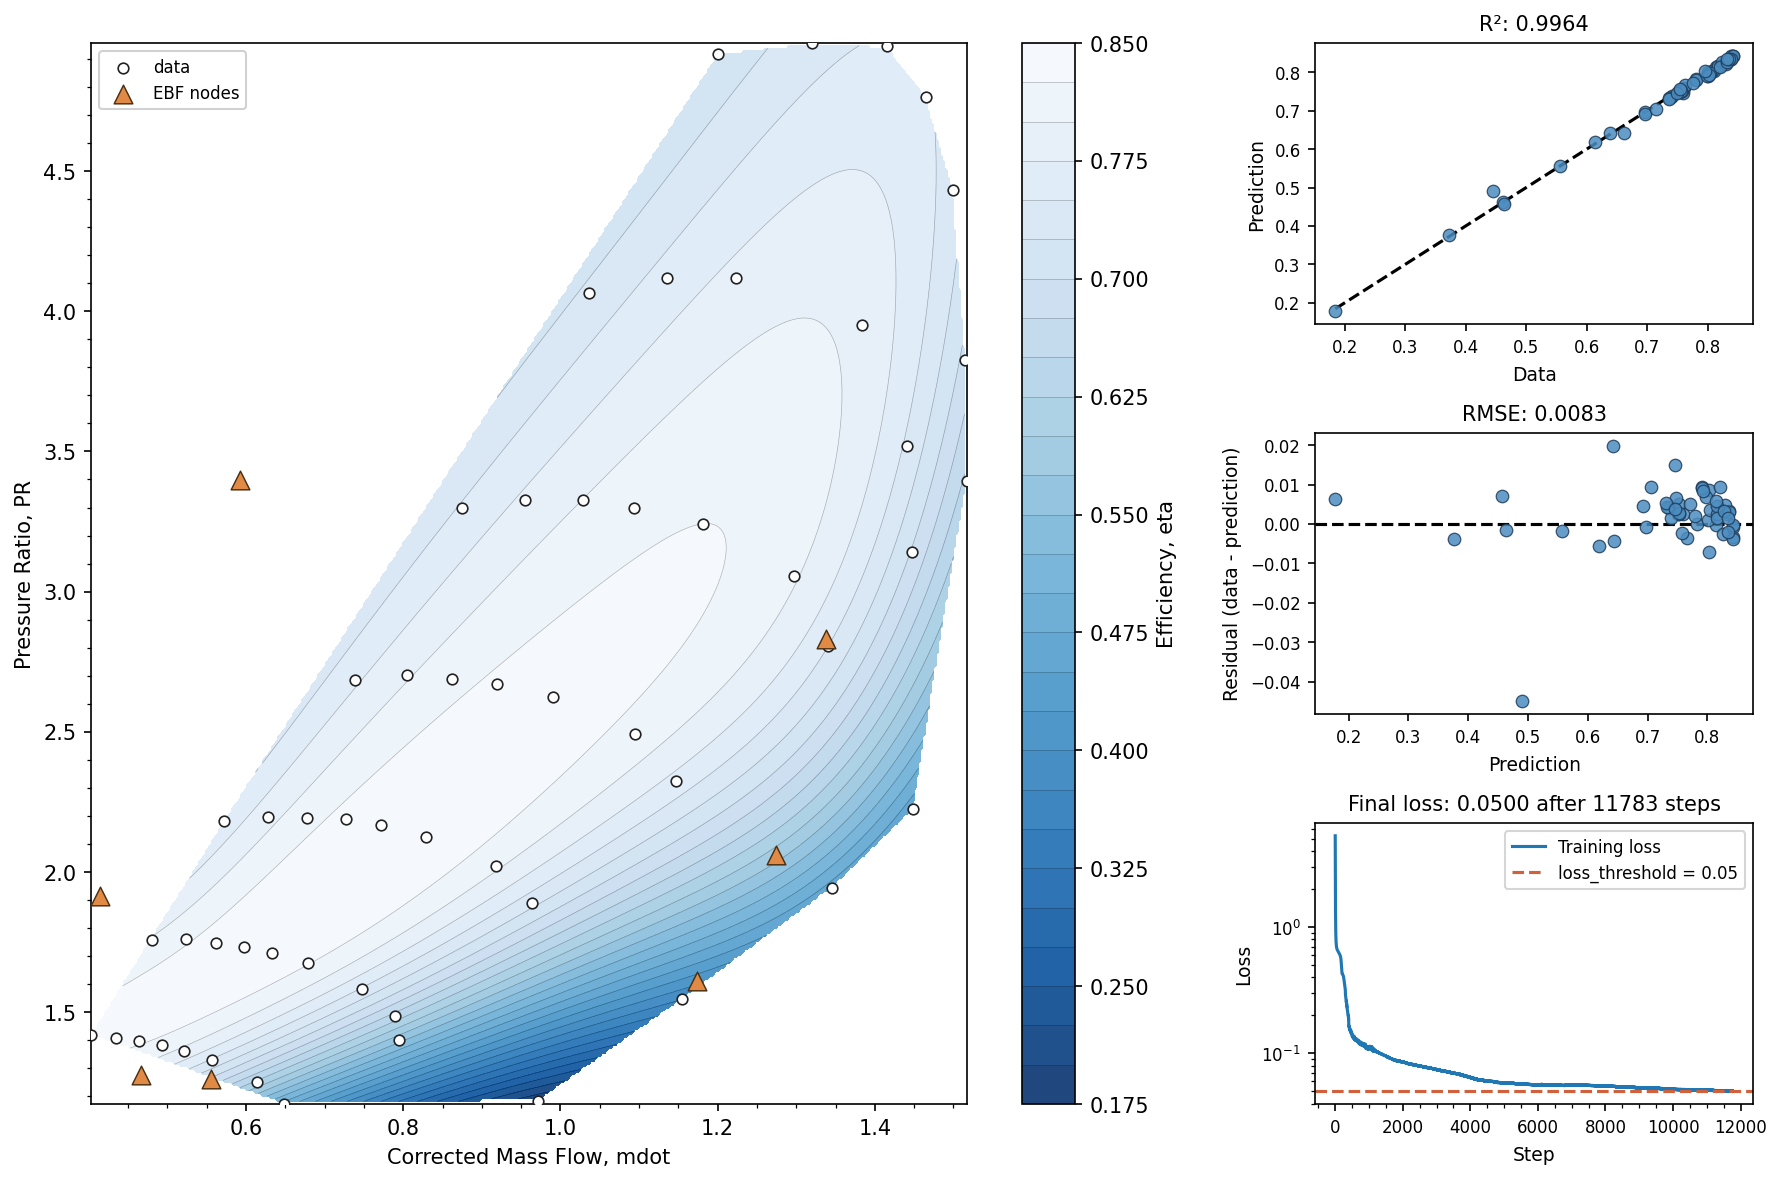
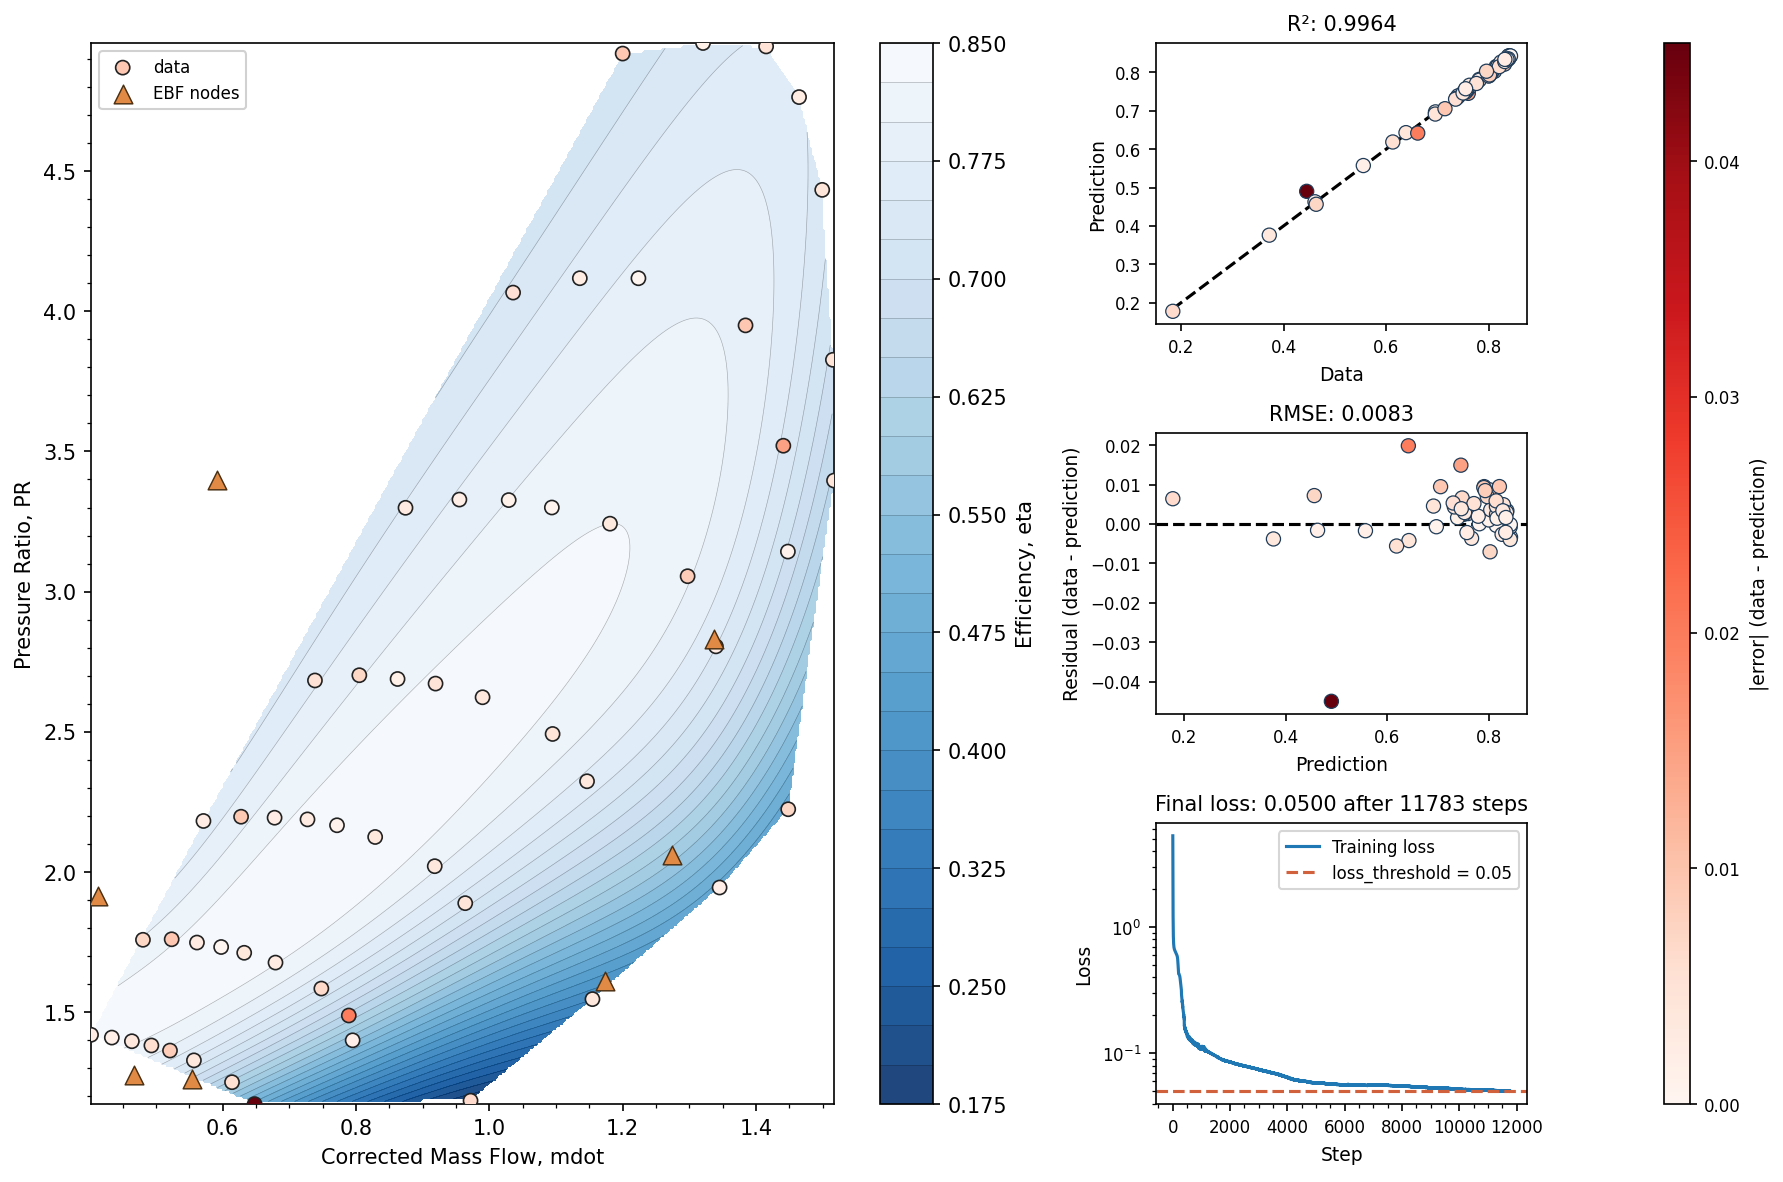
Colormap for data error

diff --git a/ebf/viz.py b/ebf/viz.py
@@ -46,12 +46,22 @@ ACCENT = '#d1603d'         # reference lines that mark a limit or target
 GRID_LINE = 'black'        # contour lines drawn over the filled map
 GRID_ALPHA = 0.3
 
+# Error-shaded variant: points are colored by |error| instead of a flat
+# fill, so the same red ramp carries the same meaning on every panel of a
+# summary figure.  Sequential red reads as "worse = darker" without a
+# legend, and stays distinct from the blue surface ramp underneath.  The
+# markers are drawn larger than the flat-fill ones because a small marker
+# gives the eye too little area to judge its shade.
+ERROR_CMAP = 'Reds'
+ERROR_SIZE = 46
+
 
 # ------------------------------------------------------------------
 # Correlation plot (any dimensionality)
 # ------------------------------------------------------------------
 
-def correlation_plot(y_true, y_pred, ax=None):
+def correlation_plot(y_true, y_pred, ax=None, *,
+                     c=None, cmap=None, norm=None):
     """Scatter plot of data vs prediction with 1:1 line and R².
 
     Parameters
@@ -62,6 +72,11 @@ def correlation_plot(y_true, y_pred, ax=None):
         Predicted values.
     ax : matplotlib.axes.Axes, optional
         Axes to draw on.  A new figure is created when *None*.
+    c : array-like, shape (n,), optional
+        Per-point values to color the markers by (e.g. absolute error).
+        Uses the flat style colour when *None*.
+    cmap, norm : optional
+        Colormap and normalization applied to *c*.
 
     Returns
     -------
@@ -81,8 +96,15 @@ def correlation_plot(y_true, y_pred, ax=None):
     slope, intercept, r_value, p_value, std_err = linregress(y_true, y_pred)
     r2 = r_value ** 2
 
-    ax.scatter(y_true, y_pred, c=POINT_FACE, edgecolors=POINT_EDGE,
-               linewidths=0.6, s=36, alpha=0.85, zorder=3)
+    if c is None:
+        ax.scatter(y_true, y_pred, c=POINT_FACE, edgecolors=POINT_EDGE,
+                   linewidths=0.6, s=36, alpha=0.85, zorder=3)
+    else:
+        # No alpha here — a translucent marker mixes with the white
+        # background and reads as a lower error than it is.
+        ax.scatter(y_true, y_pred, c=c, cmap=cmap, norm=norm,
+                   edgecolors=POINT_EDGE, linewidths=0.6, s=ERROR_SIZE,
+                   zorder=3)
     lo, hi = y_true.min(), y_true.max()
     ax.plot([lo, hi], [lo, hi], 'k--', zorder=2)
     ax.set_xlabel('Data')
@@ -96,7 +118,8 @@ def correlation_plot(y_true, y_pred, ax=None):
 # Residual-vs-predicted plot (any dimensionality)
 # ------------------------------------------------------------------
 
-def residual_plot(y_true, y_pred, ax=None):
+def residual_plot(y_true, y_pred, ax=None, *,
+                  c=None, cmap=None, norm=None):
     """Scatter plot of residuals against predictions with a zero line.
 
     Complements :func:`correlation_plot`: structure in this plot that
@@ -113,6 +136,11 @@ def residual_plot(y_true, y_pred, ax=None):
         Predicted values.
     ax : matplotlib.axes.Axes, optional
         Axes to draw on.  A new figure is created when *None*.
+    c : array-like, shape (n,), optional
+        Per-point values to color the markers by (e.g. absolute error).
+        Uses the flat style colour when *None*.
+    cmap, norm : optional
+        Colormap and normalization applied to *c*.
 
     Returns
     -------
@@ -132,8 +160,13 @@ def residual_plot(y_true, y_pred, ax=None):
 
     rmse = np.sqrt(np.mean(residuals ** 2))
 
-    ax.scatter(y_pred, residuals, c=POINT_FACE, edgecolors=POINT_EDGE,
-               linewidths=0.6, s=36, alpha=0.85, zorder=3)
+    if c is None:
+        ax.scatter(y_pred, residuals, c=POINT_FACE, edgecolors=POINT_EDGE,
+                   linewidths=0.6, s=36, alpha=0.85, zorder=3)
+    else:
+        ax.scatter(y_pred, residuals, c=c, cmap=cmap, norm=norm,
+                   edgecolors=POINT_EDGE, linewidths=0.6, s=ERROR_SIZE,
+                   zorder=3)
     ax.axhline(0.0, color='k', linestyle='--', zorder=2)
     ax.set_xlabel('Prediction')
     ax.set_ylabel('Residual (data - prediction)')
@@ -229,6 +262,7 @@ def contour_plot_2d(model, X_data, y_data=None, ax=None, *,
                     cmap=DEFAULT_CMAP, alpha=0.9,
                     xlabel=None, ylabel=None, zlabel=None,
                     show_data=True, show_nodes=False,
+                    data_color=None, data_cmap=None, data_norm=None,
                     clabel_fmt='$Z=%.2f$'):
     """Filled contour map for a 2-D input EBF model.
 
@@ -263,6 +297,14 @@ def contour_plot_2d(model, X_data, y_data=None, ax=None, *,
         Overlay training data points.  Default ``True``.
     show_nodes : bool, optional
         Overlay EBF node positions.  Default ``False``.
+    data_color : array-like, shape (n_points,), optional
+        Per-point values to color the data overlay by (e.g. absolute
+        error).  Uses the flat white marker face when *None*.
+    data_cmap, data_norm : optional
+        Colormap and normalization applied to *data_color*.  No colorbar
+        is drawn for it here — the caller owns that (see
+        :func:`summary_plot_3d`), since the axes already carry the
+        surface colorbar.
     clabel_fmt : str or None, optional
         Format string for contour labels.  ``None`` disables labels.
         Default ``'$Z=%.2f$'``.
@@ -327,9 +369,15 @@ def contour_plot_2d(model, X_data, y_data=None, ax=None, *,
     # Both must contrast against the sequential blue fill; see the shared
     # style block at the top of this module.
     if show_data:
-        ax.scatter(X_data[:, 0], X_data[:, 1], c=SAMPLE_FACE,
-                   s=SAMPLE_SIZE, edgecolors=SAMPLE_EDGE, linewidths=0.8,
-                   zorder=3, label='data')
+        if data_color is None:
+            ax.scatter(X_data[:, 0], X_data[:, 1], c=SAMPLE_FACE,
+                       s=SAMPLE_SIZE, edgecolors=SAMPLE_EDGE,
+                       linewidths=0.8, zorder=3, label='data')
+        else:
+            ax.scatter(X_data[:, 0], X_data[:, 1], c=data_color,
+                       cmap=data_cmap, norm=data_norm,
+                       s=ERROR_SIZE, edgecolors=SAMPLE_EDGE,
+                       linewidths=0.8, zorder=3, label='data')
 
     if show_nodes:
         nodes = model.get_nodes()
@@ -362,6 +410,7 @@ def contour_plot_2d(model, X_data, y_data=None, ax=None, *,
 def summary_plot_3d(model, X_data, y_data, *, figsize=(12, 8),
                     loss_threshold=None,
                     xlabel=None, ylabel=None, zlabel=None,
+                    error_color=True, error_cmap=ERROR_CMAP,
                     **contour_kwargs):
     """One-figure fit summary for 3-D data (two inputs, one output).
 
@@ -371,6 +420,12 @@ def summary_plot_3d(model, X_data, y_data, *, figsize=(12, 8),
     residual-vs-predicted plot (:func:`residual_plot`), and the
     training loss curve (:func:`convergence_plot`) are stacked in a
     narrower column on the right.
+
+    By default every data point is shaded by its absolute error on one
+    shared red scale, so the same shade means the same error on all
+    three data panels and a bad point can be traced from the residual
+    plot back to where it sits on the map (``error_color=False``
+    restores flat markers).
 
     Parameters
     ----------
@@ -387,6 +442,13 @@ def summary_plot_3d(model, X_data, y_data, *, figsize=(12, 8),
         panel (pass the same value given to ``fit()``).
     xlabel, ylabel, zlabel : str, optional
         Axis / colorbar labels for the contour panel.
+    error_color : bool, optional
+        Shade every data point by its absolute error — same values, same
+        colormap and same scale on all three data panels, with a single
+        shared colorbar down the right-hand edge.  Default ``True``;
+        pass ``False`` for flat-filled markers.
+    error_cmap : str, optional
+        Colormap for the *error_color* shading.  Default ``'Reds'``.
     **contour_kwargs
         Extra keyword arguments forwarded to :func:`contour_plot_2d`
         (e.g. ``n_grid``, ``mask``, ``cmap``, ``show_nodes``).
@@ -398,6 +460,8 @@ def summary_plot_3d(model, X_data, y_data, *, figsize=(12, 8),
         ``(contour, correlation, residual, convergence)`` axes.
     """
     import matplotlib.pyplot as plt
+    from matplotlib.cm import ScalarMappable
+    from matplotlib.colors import Normalize
 
     X_data = np.asarray(X_data)
     y_data = np.asarray(y_data)
@@ -406,8 +470,32 @@ def summary_plot_3d(model, X_data, y_data, *, figsize=(12, 8),
             "summary_plot_3d requires 3-D data: X_data with two input "
             "columns plus a 1-D output y_data.")
 
+    y_pred = model.predict(X_data)
+
+    if error_color:
+        abs_err = np.abs(y_data - y_pred)
+        # A shared norm is what makes the three panels comparable: the
+        # same shade means the same error wherever it appears.  Anchor
+        # the low end at zero so shade reads as magnitude, not rank.
+        err_max = float(abs_err.max())
+        err_norm = Normalize(vmin=0.0, vmax=err_max if err_max > 0 else 1.0)
+        point_kwargs = dict(c=abs_err, cmap=error_cmap, norm=err_norm)
+        data_kwargs = dict(data_color=abs_err, data_cmap=error_cmap,
+                           data_norm=err_norm)
+    else:
+        point_kwargs = {}
+        data_kwargs = {}
+
     fig = plt.figure(figsize=figsize)
-    gs = fig.add_gridspec(3, 2, width_ratios=(2.5, 1))
+    if error_color:
+        # A dedicated slim column keeps the shared colorbar clear of the
+        # panels; a figure-level colorbar would instead steal width from
+        # whichever axes it attached to.
+        gs = fig.add_gridspec(3, 3, width_ratios=(2.5, 1, 0.07))
+        ax_cbar = fig.add_subplot(gs[:, 2])
+    else:
+        gs = fig.add_gridspec(3, 2, width_ratios=(2.5, 1))
+        ax_cbar = None
     ax_contour = fig.add_subplot(gs[:, 0])
     ax_corr = fig.add_subplot(gs[0, 1])
     ax_resid = fig.add_subplot(gs[1, 1])
@@ -415,13 +503,18 @@ def summary_plot_3d(model, X_data, y_data, *, figsize=(12, 8),
 
     contour_plot_2d(model, X_data, y_data, ax=ax_contour,
                     xlabel=xlabel, ylabel=ylabel, zlabel=zlabel,
-                    **contour_kwargs)
+                    **data_kwargs, **contour_kwargs)
 
-    y_pred = model.predict(X_data)
-    correlation_plot(y_data, y_pred, ax=ax_corr)
-    residual_plot(y_data, y_pred, ax=ax_resid)
+    correlation_plot(y_data, y_pred, ax=ax_corr, **point_kwargs)
+    residual_plot(y_data, y_pred, ax=ax_resid, **point_kwargs)
 
     convergence_plot(model, ax=ax_conv, loss_threshold=loss_threshold)
+
+    if error_color:
+        cbar = fig.colorbar(
+            ScalarMappable(norm=err_norm, cmap=error_cmap), cax=ax_cbar)
+        cbar.ax.set_ylabel('|error| (data - prediction)', fontsize=9)
+        cbar.ax.tick_params(labelsize=8)
 
     for ax in (ax_corr, ax_resid, ax_conv):
         ax.tick_params(labelsize=8)

diff --git a/examples/comp_map_ebf.py b/examples/comp_map_ebf.py
@@ -127,6 +127,11 @@ if __name__ == "__main__":
     # --- Summary figure ---
     # Fitted surface, correlation, residuals and convergence in one
     # figure; extra keyword arguments are forwarded to contour_plot_2d.
+    # error_color (on by default) shades every data point by its absolute
+    # error on all three data panels, on one shared red scale with a
+    # colorbar down the right edge — so a bad point in the residual plot
+    # can be traced to where it sits on the map.  Pass False for flat
+    # white markers.
     fig_summary, _ = ebf.summary_plot_3d(
         model, X, eta,
         xlabel='Corrected Mass Flow, mdot',
@@ -134,6 +139,7 @@ if __name__ == "__main__":
         zlabel='Efficiency, eta',
         loss_threshold=0.05,
         show_nodes=True,
+        error_color=True,        # shade points by |error| ('Reds')
     )
 
     # Saved for the documentation — this is the figure the README uses to

diff --git a/docs/visualization.md b/docs/visualization.md
@@ -29,6 +29,7 @@ ax.scatter(x, y, c=SAMPLE_FACE, edgecolors=SAMPLE_EDGE)
 | `NODE_FACE` / `NODE_EDGE` | muted orange | EBF node positions (triangle marker) |
 | `POINT_FACE` / `POINT_EDGE` | mid blue | Scatter on white-background diagnostics |
 | `ACCENT` | muted orange-red | Threshold and limit reference lines |
+| `ERROR_CMAP` / `ERROR_SIZE` | `'Reds'` / 46 | Points shaded by absolute error (see the summary figure) |
 
 The constraint driving these choices: the surface colormap is a sequential
 blue ramp, so anything drawn *over* it must not be blue. Samples are white
@@ -124,6 +125,12 @@ becomes visible here:
 - **Outliers** stand apart from the cloud — useful for judging whether
   a robust loss (`loss_type='huber'` or `'tukey'`) is warranted
 
+Both plots accept `c`, `cmap` and `norm` to shade the markers by a
+per-point value instead of the flat style colour — that is how
+`summary_plot_3d()` puts every panel on one shared error scale. The
+contour plot takes the same thing as `data_color` / `data_cmap` /
+`data_norm` for its data overlay.
+
 ## 2-D Contour Plot
 
 For models with exactly two input dimensions, `ebf.contour_plot_2d()`
@@ -151,6 +158,7 @@ fig, ax = ebf.contour_plot_2d(
 | `alpha` | 0.9 | Fill opacity |
 | `show_data` | `True` | Overlay training points |
 | `show_nodes` | `False` | Overlay EBF node positions |
+| `data_color` | `None` | Per-point values to shade the data overlay by (with `data_cmap` / `data_norm`) |
 
 When `mask=True` (the default), `scipy.interpolate.griddata` with
 `method='linear'` is used to identify grid cells outside the convex hull
@@ -176,6 +184,16 @@ fig, axes = ebf.summary_plot_3d(
     show_nodes=True,
 )
 ```
+
+By default (`error_color=True`) every data point is shaded by its
+absolute error with the `'Reds'` colormap — darker means a worse fit —
+using one normalization shared by the contour, correlation and residual
+panels, with the colorbar down the right-hand edge. Because the scale is
+shared and anchored at zero, the same shade means the same error on every
+panel, so a point that stands out in the residual plot can be located on
+the map. The scale is set by the largest absolute error, so a single bad
+point will pale the rest; pass `error_color=False` for flat white markers
+instead, or `error_cmap` for a different ramp.
 
 Extra keyword arguments (`n_grid`, `mask`, `cmap`, `show_nodes`, …) are
 forwarded to `contour_plot_2d()`. The returned `axes` array holds the

diff --git a/README.md b/README.md
@@ -164,18 +164,20 @@ a single figure. This is a compressor efficiency map: 56 operating points, 9 nod
 
 ![Compressor map fit summary](docs/assets/compressor_map_summary.png)
 
-*Left: the fitted efficiency surface, with training data (white) and the learned node
-positions (orange). Right, top to bottom: prediction vs data with R² = 0.9964; residuals
+*Left: the fitted efficiency surface, with training data and the learned node positions
+(orange triangles). Right, top to bottom: prediction vs data with R² = 0.9964; residuals
 vs prediction, RMSE 0.0083 — about 1.3% of the 0.184–0.843 efficiency range, with one point
 standing clearly apart; and the training loss, which hit its `loss_threshold` after 11,783 of
-the 80,000 requested steps. Reproduce with
-[`examples/comp_map_ebf.py`](examples/comp_map_ebf.py).*
+the 80,000 requested steps. Every data point is shaded by its absolute error on one shared
+red scale (colorbar, far right), so the same shade means the same error on all three panels.
+Reproduce with [`examples/comp_map_ebf.py`](examples/comp_map_ebf.py).*
 
 Read together these answer the three questions worth asking of any fit: **is it accurate**
 (correlation), **is it wrong anywhere in particular** (residuals), and **did it actually
 converge** (loss curve). The residual panel is the one that earns its keep — that single
 outlier near prediction 0.5 is invisible on the correlation plot, which compresses it against
-the 1:1 line.
+the 1:1 line. The shared error shading then places it: it is the darkest point on the map, in
+the low-flow, low-pressure-ratio corner where the data thins out.
 
 ### Inspecting what was learned
 

diff --git a/docs/examples/compressor_map.md b/docs/examples/compressor_map.md
@@ -179,6 +179,7 @@ ebf.summary_plot_3d(
     zlabel='Efficiency, eta',
     loss_threshold=0.05,
     show_nodes=True,
+    error_color=True,        # the default — shade points by |error|
 )
 ```
 
@@ -194,6 +195,12 @@ worth asking of any fit:
   it against the 1:1 line.
 - **Convergence** — training stopped at 11,783 of the 80,000 requested
   steps when the loss reached `loss_threshold=0.05`.
+
+Every data point is shaded by its absolute error, on one scale shared by
+all three data panels (colorbar on the far right).  That is what ties the
+panels together: the outlier the residual plot isolates is also the
+darkest marker on the map, in the low-flow, low-pressure-ratio corner.
+Pass `error_color=False` for flat white markers instead.
 
 Two of the nine nodes sit outside the plotted region. `contour_plot_2d`
 deliberately clamps the axes to the data bounds, so a node that drifts far
